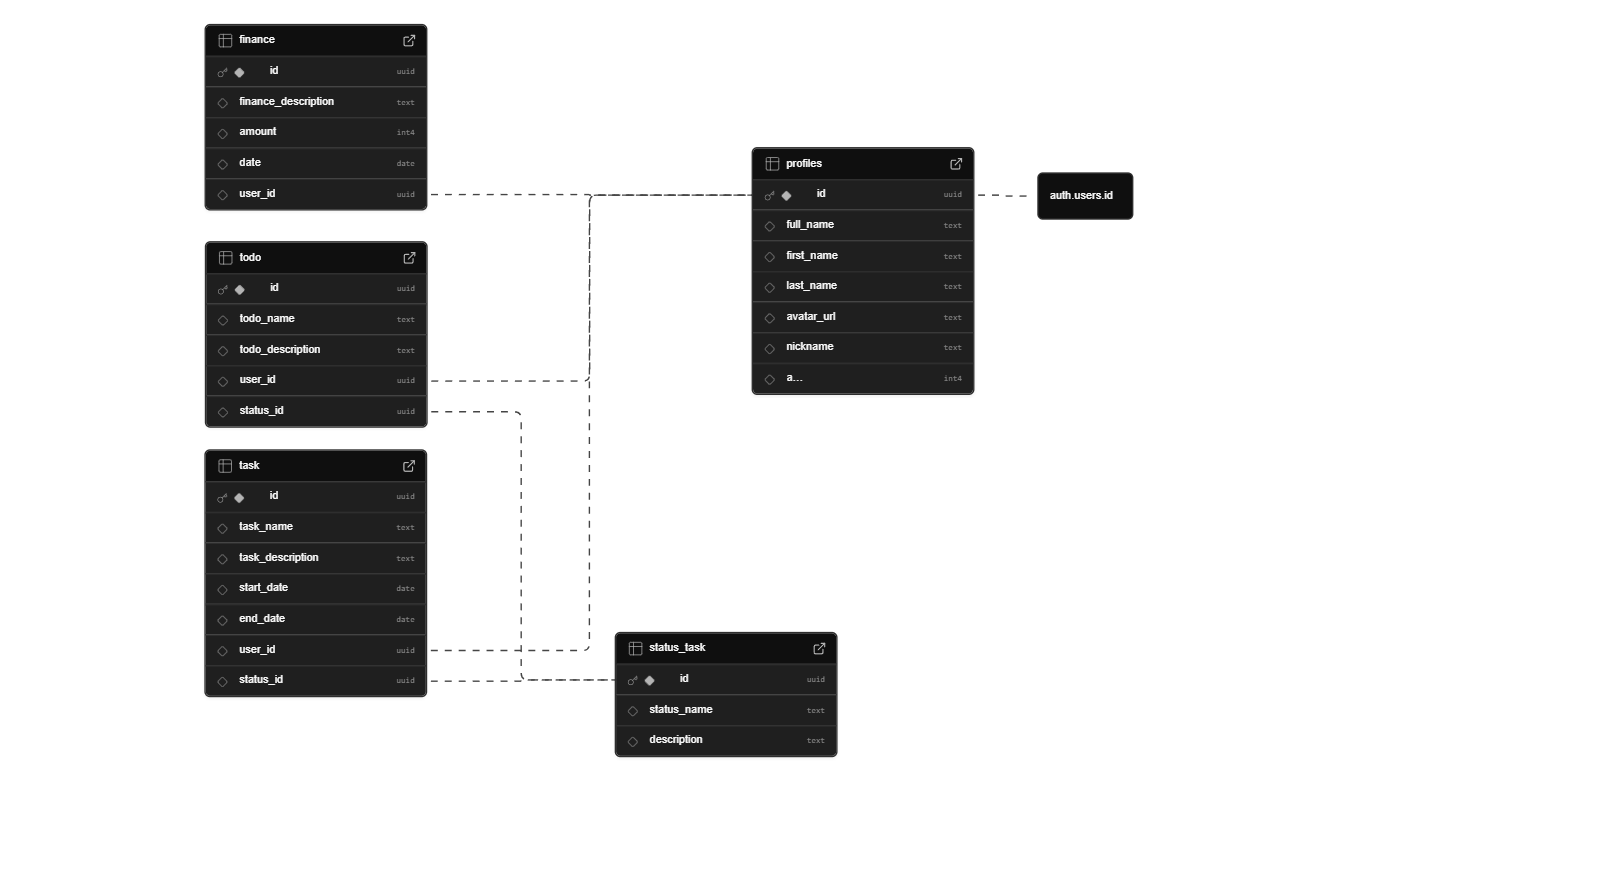
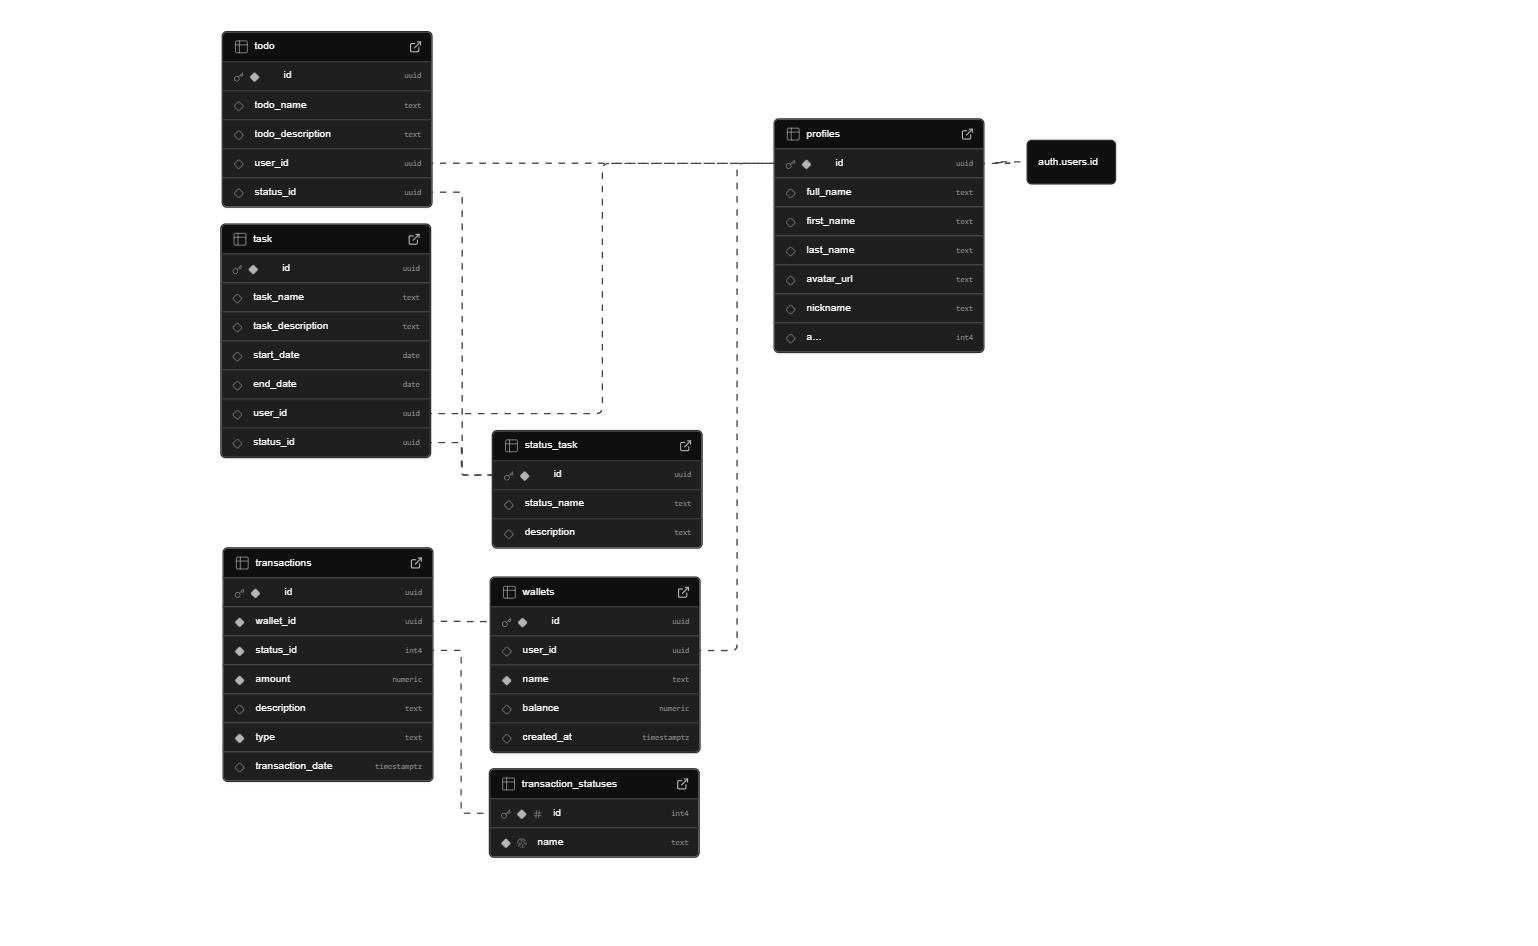
เพิ่มระบบใหม่ตอนนี้ได้  1 หน้าแล้ว

Changed region(s): [[0.1248, 0.0, 0.5306, 0.9163], [0.3121, 0.1222, 0.749, 0.5803]]

diff --git a/quick-task/src/page/Finance/Wallet.tsx b/quick-task/src/page/Finance/Wallet.tsx
@@ -1,0 +1,89 @@
+import { useEffect, useState } from "react";
+import { Link } from "react-router-dom"
+import { supabase } from "../../supabase/supabaseClient";
+import type { WalletInterface } from "../../interface";
+import Loader from "../../component/Loader";
+
+const Wallet = () => {
+    const user_id = localStorage.getItem('user_id');
+    const [wallet, setWallet] = useState<WalletInterface[]>([]);
+    const [loading, setLoading] = useState(true);
+    const [WalletForm, setWalletForm] = useState<WalletInterface>({
+        name: '',
+        user_id: String(user_id)
+    });
+
+    useEffect(() => {
+        fetchWallet();
+    }, []);
+    
+
+    const fetchWallet = async () => {
+        try {
+            const { data: wallets, error } = await supabase
+                .from('wallets')
+                .select('*')
+                .eq('user_id', user_id);
+            if (error) {
+                console.error("Error fetching wallet:", error);
+                return;
+            }
+            if (wallets) { // ตรงนี้ผิดมาแก้ด้วย
+                // console.table(wallets);
+                setLoading(false);
+                setWallet(wallets);
+            }
+
+        } catch (error) {
+            console.error("Error fetching wallet:", error);
+        }
+    }
+
+    const InsertWallet = async (event: any) => {
+        event.preventDefault();
+        if (!WalletForm.user_id) {
+            alert("pless select user");
+            return;
+        }
+        try {
+            // console.table(WalletForm);
+            const { error } = await supabase
+                .from('wallets')
+                .insert(WalletForm);
+            if (error) {
+                throw error;
+            }
+            await fetchWallet();
+        } catch (error: any) {
+            console.error('Error inserting task:', error.message);
+        }
+    }
+
+    if (loading) {
+        return (
+            <>
+                <Loader />
+            </>
+        );
+    }
+    return (
+        <>
+            <h1>Wallet</h1>
+            <div>
+                <input type="text" onChange={(e) => setWalletForm({ ...WalletForm, name: e.target.value })} />
+                <button onClick={InsertWallet}>Insert</button>
+            </div>
+            <div>
+                {wallet.map((wallet, index) => (
+                    <div key={index}>
+                        <h2>{wallet.name}</h2>
+                        <p>Balance: {wallet.balance}</p>
+                        <Link to={`/finance/${wallet.id}`}>Details</Link>
+                    </div>
+                ))}
+            </div>
+        </>
+    )
+}
+
+export default Wallet

diff --git a/quick-task/src/App.tsx b/quick-task/src/App.tsx
@@ -4,10 +4,12 @@ import Rootlayout from './layout/Layout';
 import Home from './page/Home';
 import Todo from './page/Todo';
 import Task from './page/Task';
-import Finance from './page/Finance';
+import Finance from './page/Finance/Finance';
 import Login from './page/Login';
 import ProtectedRoute from './component/ProtectedRoute';
 import Me from './page/Me';
+import Wallet from './page/Finance/wallet';
+import Categories from './page/Finance/categories';
 
 const router = createBrowserRouter([
   {
@@ -17,7 +19,9 @@ const router = createBrowserRouter([
     children: [
       { index: true, element: <ProtectedRoute><Home /></ProtectedRoute> },
       { path: "task", element: <ProtectedRoute><Task /></ProtectedRoute> },
-      { path: "finance", element: <ProtectedRoute><Finance /></ProtectedRoute> },
+      { path: "wallet", element: <ProtectedRoute><Wallet /></ProtectedRoute> },
+      { path: "categories", element: <ProtectedRoute><Categories /></ProtectedRoute> },
+      { path: "finance/:id", element: <ProtectedRoute><Finance /></ProtectedRoute> },
       { path: "todo-list", element: <ProtectedRoute><Todo /></ProtectedRoute> },
       { path: "me", element: <ProtectedRoute><Me /></ProtectedRoute> },
       { path: "login", element: <Login /> },

diff --git a/quick-task/src/page/Login.tsx b/quick-task/src/page/Login.tsx
@@ -1,8 +1,10 @@
 import { useState } from 'react';
 import { supabase } from '../supabase/supabaseClient';
 import './style/Login.css'
+import { useNavigate } from 'react-router-dom';
 
 const Login = () => {
+    const navigate = useNavigate();
     const [email, setEmail] = useState('');
     const [password, setPassword] = useState('');
 
@@ -16,11 +18,13 @@ const Login = () => {
     };
 
     const handleLogin = async () => {
-        const { error } = await supabase.auth.signInWithPassword({ email, password });
+        const { data , error } = await supabase.auth.signInWithPassword({ email, password });
         if (error) {
             console.error("Login error:", error.message);
         } else {
             alert('เข้าสู่ระบบสำเร็จ!');
+            localStorage.setItem('user_id', data.user.id);
+            navigate("/");
         }
     };
 

diff --git a/quick-task/src/layout/Nav.tsx b/quick-task/src/layout/Nav.tsx
@@ -41,8 +41,8 @@ const Nav = () => {
                             <span className="circle"></span>
                         </Link>
                     </li>
-                    <li className={`list-nav ${isActive('/finance') ? 'active' : ''}`}>
-                        <Link to="/finance">
+                    <li className={`list-nav ${isActive('/wallet') ? 'active' : ''}`}>
+                        <Link to="/wallet">
                             <span className="icon-nav">
                                 <img src={cash} width={30} />
                             </span>

diff --git a/quick-task/src/page/Task.tsx b/quick-task/src/page/Task.tsx
@@ -2,7 +2,7 @@ import { useEffect, useState } from "react"
 import { supabase } from "../supabase/supabaseClient"
 import type { StatusTaskInterface, TaskInterface } from "../interface";
 import './style/task.css'
-import Loader from "../component/loader";
+import Loader from "../component/Loader";
 
 const Task = () => {
     const [user, setUser] = useState<any>(null);

diff --git a/quick-task/src/interface.ts b/quick-task/src/interface.ts
@@ -25,3 +25,11 @@ export type StatusTaskInterface = {
     status_name: string;
     description: string;
 };
+
+export type WalletInterface = {
+    id?: string;
+    name?: string;
+    balance?: number;
+    user_id?: string;
+    created_at?: Date;
+};

diff --git a/quick-task/src/page/Finance/Finance.tsx b/quick-task/src/page/Finance/Finance.tsx
@@ -1,8 +1,11 @@
+import { useParams } from "react-router-dom";
 
 const Finance = () => {
+    const { id } = useParams();
     return (
         <>
             <h1>Finance</h1>
+            <p>ID: {id}</p>
         </>
     )
 }

diff --git a/quick-task/src/App.css b/quick-task/src/App.css
@@ -26,3 +26,8 @@ body {
     background-color: rgba(255, 255, 255, 0.5);
     border-radius: 10px;
 }
+
+*::selection {
+    background-color: var(--background-modal);
+    color: var(--text-main);
+}

diff --git a/quick-task/src/page/Finance/Categories.tsx b/quick-task/src/page/Finance/Categories.tsx
@@ -1,0 +1,10 @@
+
+const Categories = () => {
+  return (
+    <>
+      <h1>Categories</h1>
+    </>
+  )
+}
+
+export default Categories
